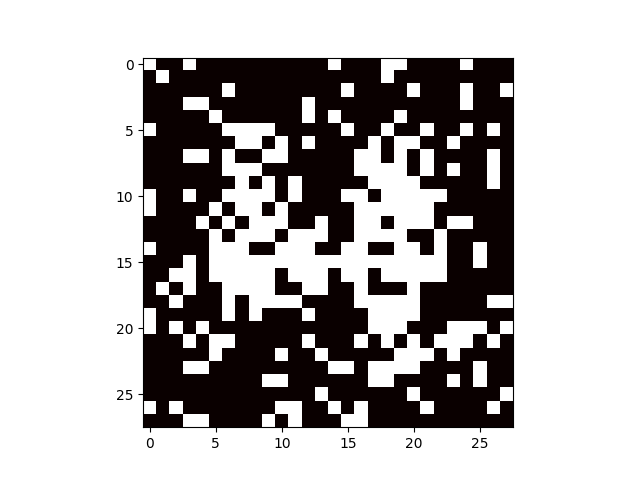
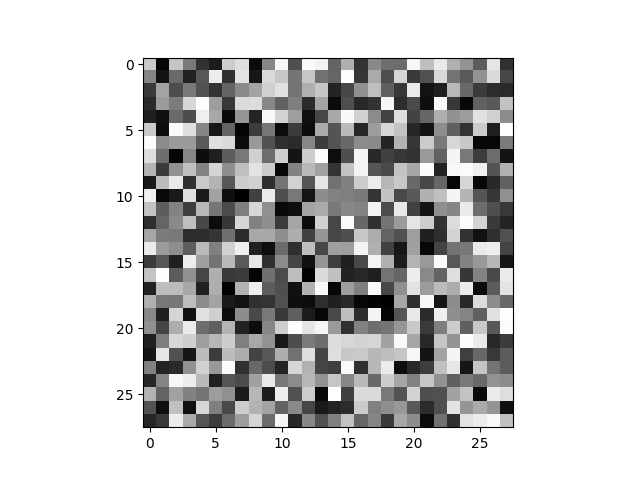
done

diff --git a/train.py b/train.py
@@ -1,66 +1,50 @@
-from torch.utils.data import DataLoader
-import torchvision.transforms as transforms
-import torchvision.datasets
+import analyze
 from my_conv_net import MyConvNet
 import torch
 import torch.nn as nn
 import constants
-import analyze
+import cv2
+import torch.nn.functional as F
 
 
 def train(mode="normal"):
-    num_epochs = 5
-    num_classes = 10
-    learning_rate = 0.001
-    trans = transforms.Compose([transforms.ToTensor(), transforms.Normalize((0.1307,), (0.3081,))])
-    train_dataset = torchvision.datasets.MNIST(root=constants.DATA_PATH, train=True, transform=trans, download=True)
-    train_loader = DataLoader(dataset=train_dataset, batch_size=constants.batch_size, shuffle=True)
-
+    data = cv2.imread("4.png")
+    data = cv2.cvtColor(data, cv2.COLOR_BGR2GRAY)
+    data = torch.tensor(data, dtype=torch.float)
+    analyze.plot_tensor(data,"others","tensor")
+    images = data.reshape(1, 1, data.shape[0], data.shape[1])
+    model = MyConvNet()
+    filters = model.layer1[0].weight.data
     device = torch.device("cuda" if torch.cuda.is_available() else "cpu")
-
     model = MyConvNet()
 
     if mode != "normal":
         filters = model.layer1[0].weight.data
-        r = torch.rand(5, 5)
+        r = torch.rand(28, 28)
         filters[0, 0] = r
         filters[1, 0] = r
 
     analyze.analyze(model, mode, "before")
     model = model.to(device)
     criterion = nn.CrossEntropyLoss()
-    optimizer = torch.optim.Adam(model.parameters(), lr=learning_rate)
+
+    optimizer = torch.optim.Adam(model.parameters(), lr=0.001)
 
     print("Training...")
-    total_step = len(train_loader)
-    loss_list = []
-    acc_list = []
-    for epoch in range(num_epochs):
-        for i, (images, labels) in enumerate(train_loader):
-            images = images.to(device)
-            labels = labels.to(device)
-            outputs = model(images)
-            loss = criterion(outputs, labels)
-            loss_list.append(loss.item())
+    for epoch in range(1000):
             optimizer.zero_grad()
+            images = images.to(device)
+            labels = torch.tensor([4])
+            labels = labels.to(device)
+
+            optimizer.zero_grad()
+            outputs = model(images)
+            loss = F.nll_loss(outputs, labels)
+            print(f'Epoch:{epoch + 1}, Loss:{loss.item():.4f}')
             loss.backward()
             optimizer.step()
-            total = labels.size(0)
-            _, predicted = torch.max(outputs.data, 1)
-            correct = (predicted == labels).sum().item()
-            acc_list.append(correct / total)
 
-            if (i + 1) % 100 == 0:
-                print(
-                    "Epoch [{}/{}], Step [{}/{}], Loss: {:.4f}, Accuracy: {:.2f}%"\
-                        .format(
-                            epoch + 1,
-                            num_epochs, i + 1,
-                            total_step,
-                            loss.item(),
-                            (correct / total) * 100
-                        )
-                )
+
     torch.save(model, constants.DEFAULT_MODEL_PATH)
-    analyze.analyze(model, mode, "before")
+    analyze.analyze(model, mode, "after")
     return model

diff --git a/my_conv_net.py b/my_conv_net.py
@@ -1,23 +1,19 @@
 import torch.nn as nn
-import torch
+import torch.nn.functional as F
 
 
 class MyConvNet(nn.Module):
 
     def __init__(self):
         super(MyConvNet, self).__init__()
-
         self.layer1 = nn.Sequential(
-            nn.Conv2d(1, 3, kernel_size=5, bias=False),
+            nn.Conv2d(1,100, (28,28)),
             nn.ReLU(),
-            nn.AvgPool2d(kernel_size=4)
+            nn.Flatten(),
+            nn.Linear(100, 10)
         )
 
-        self.fc1 = nn.Linear(108, 2)
-
     def forward(self, x):
-        out = self.layer1(x)
-        out = torch.flatten(out, start_dim=1)
-        out = self.fc1(out)
-        return out
+        x = self.layer1(x)
+        return F.log_softmax(x, dim=1)
 

diff --git a/analyze.py b/analyze.py
@@ -5,10 +5,7 @@ import torch.nn.functional as F
 
 
 def plot_tensor(tensor,folder, filename):
-    mean = torch.mean(tensor)
     tensor = tensor.data.clone()
-    # tensor[tensor >= mean] = 255
-    # tensor[tensor < mean] = 0
     plt.imshow(tensor.cpu().numpy(), cmap="gray")
     plt.savefig(f"{folder}/{filename}")
 
@@ -18,7 +15,6 @@ def plot_filters(filters, folder, prefix):
     filters = filters.reshape(filters.shape[0], filters.shape[2], filters.shape[3])
     for index,tensor in enumerate(filters[0:3]):
         plot_tensor(tensor, folder,f"{prefix}_{index}.png")
-
 
 
 def analyze(model,folder,prefix):

diff --git a/main.py b/main.py
@@ -4,4 +4,3 @@ from test import test
 
 for mode in ["normal", "2same"]:
     model = train(mode)
-    test()
